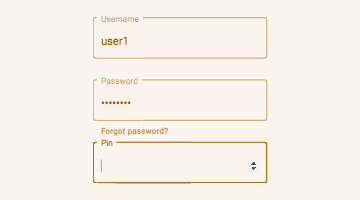
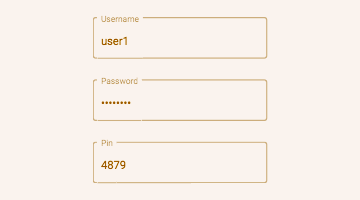
remove pw hint

diff --git a/scenes/src/app/scenes/input/input-scene.html b/scenes/src/app/scenes/input/input-scene.html
@@ -7,12 +7,11 @@
   <mat-form-field appearance="outline">
     <mat-label>Password</mat-label>
     <input matInput type="password" value="abcdefgh">
-    <mat-hint align="start"><strong>Forgot password?</strong> </mat-hint>
   </mat-form-field>
 
   <mat-form-field appearance="outline">
     <mat-label>Pin</mat-label>
-    <input matInput type="number" autofocus>
+    <input matInput type="number" value="4879">
   </mat-form-field>
 </div>
 

diff --git a/scenes/src/app/app-routing.module.ts b/scenes/src/app/app-routing.module.ts
@@ -2,8 +2,6 @@ import { NgModule } from '@angular/core';
 import { Routes, RouterModule } from '@angular/router';
 import { SceneViewer } from './scene-viewer/scene-viewer';
 import { RipplesScene } from './scenes/ripples/ripples-scene';
-
-
 import { InputScene } from './scenes/input/input-scene';
 
 

diff --git a/scenes/src/app/scenes/input/input-scene.scss b/scenes/src/app/scenes/input/input-scene.scss
@@ -1,5 +1,5 @@
 .scene-inputs .scene-input-clear {
-  margin-bottom: -10px
+  margin-bottom: -10px;
 }
 
 .scene-inputs {
